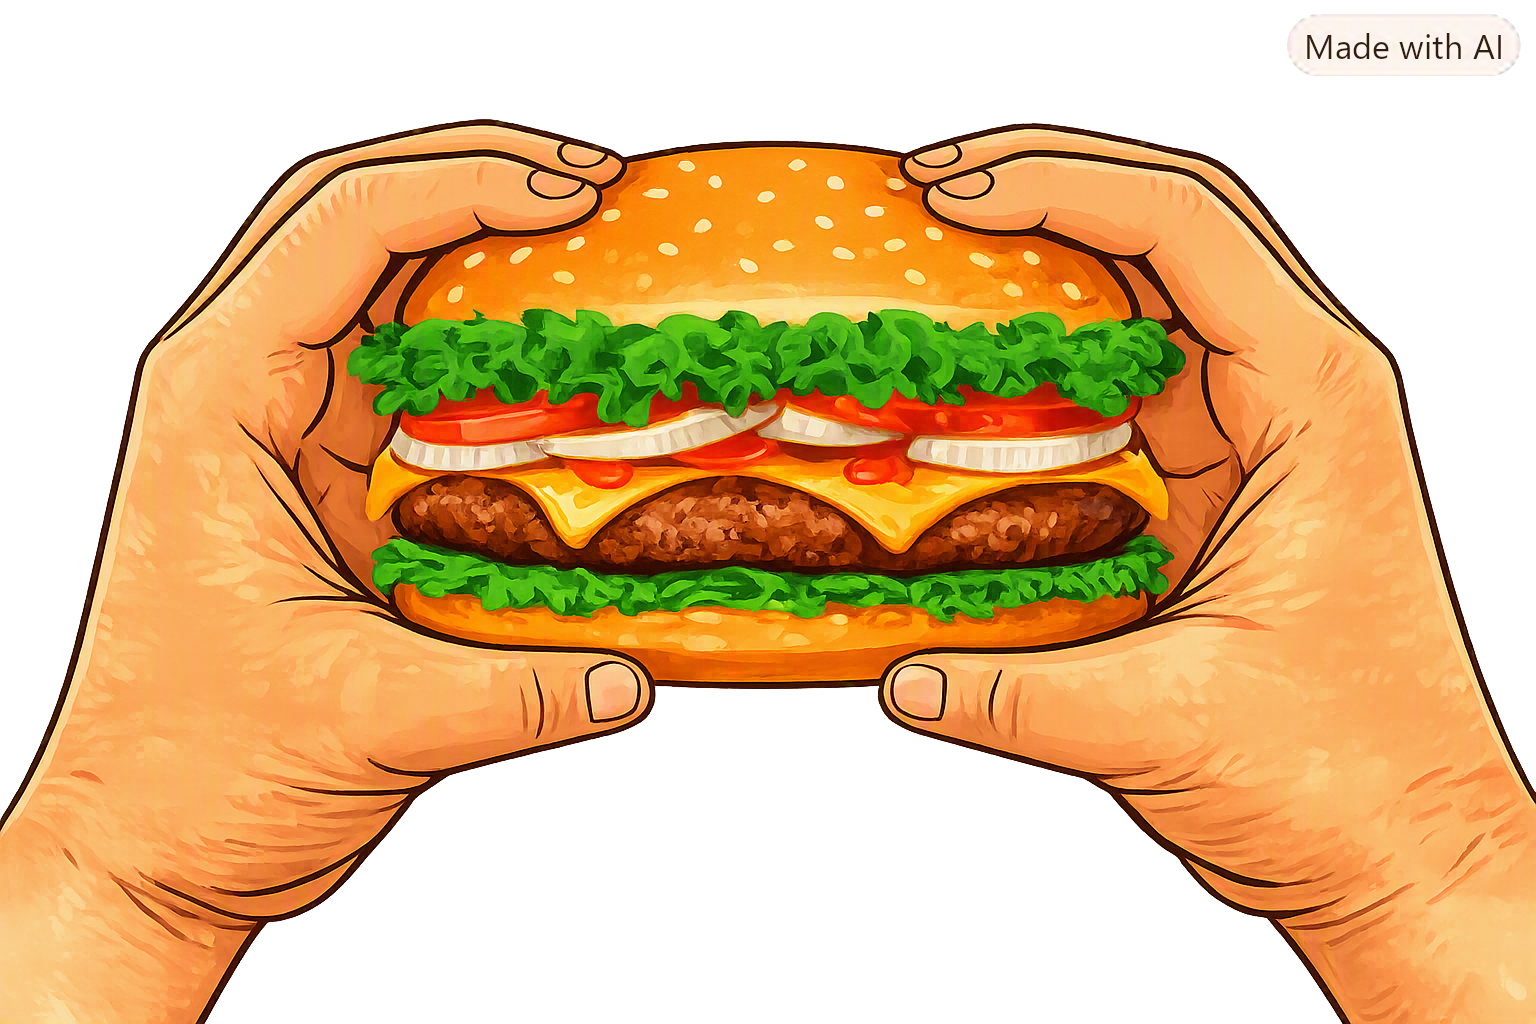
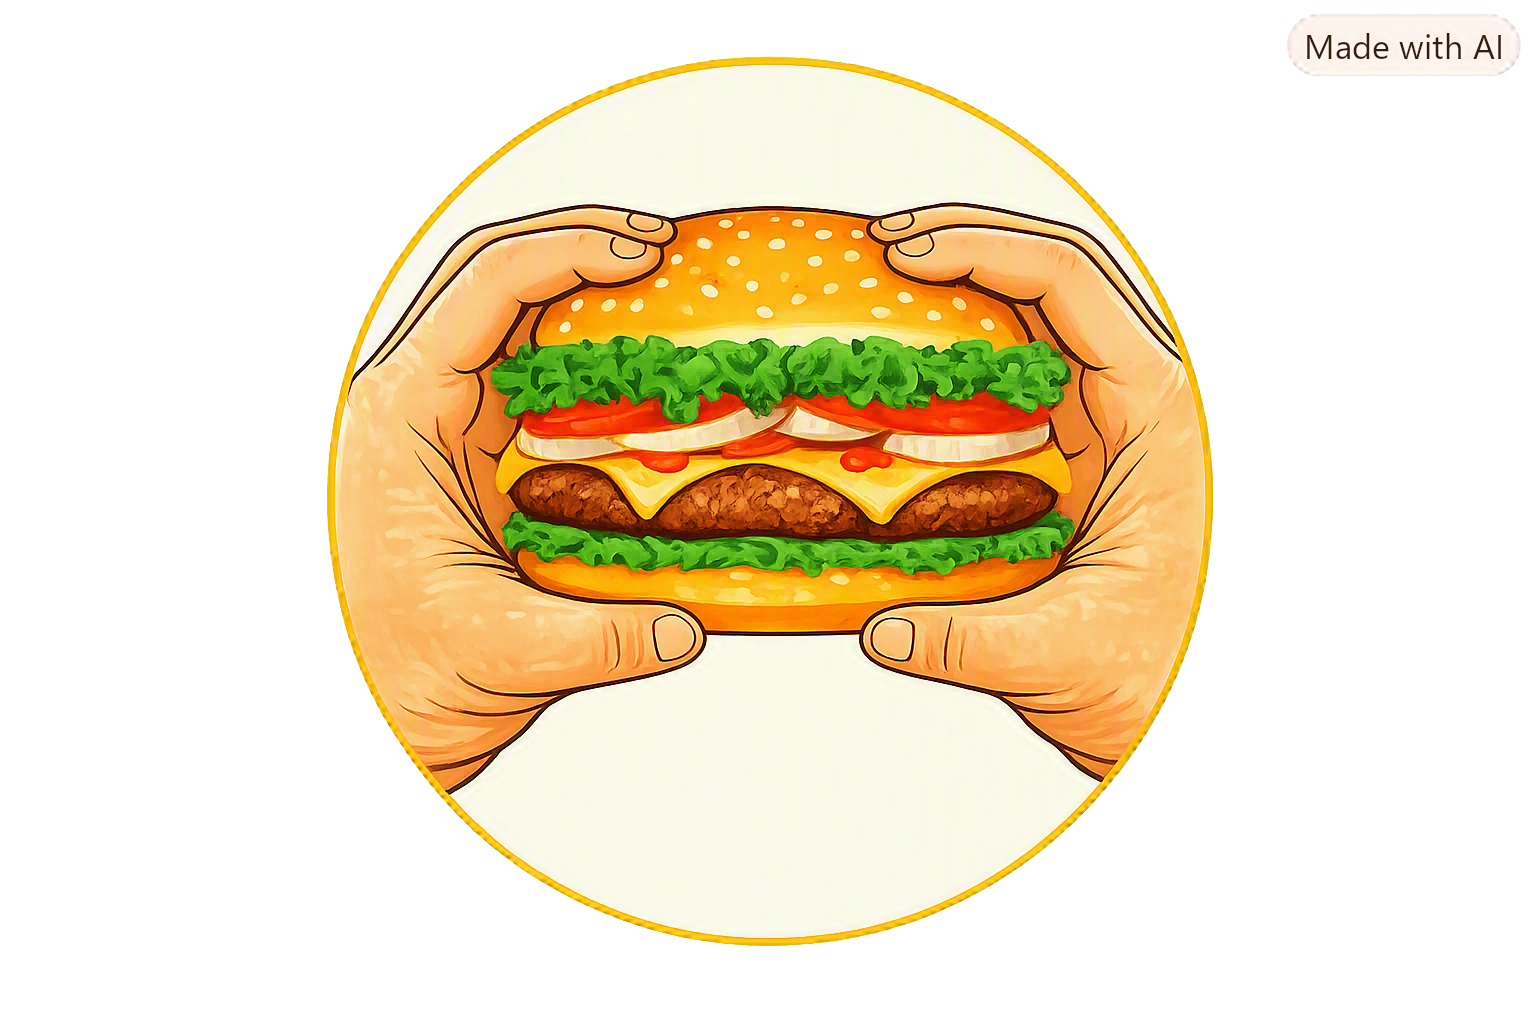
updated

diff --git a/AppGC.html b/AppGC.html
@@ -109,10 +109,10 @@ chef_hat
                 <div class="bloco-promocao">
                     <i class="fa-solid fa-down-long"></i>
                     <picture>
-                        <source srcset="imagens/pix.png" media="(max-width: 760px)" type="image/png">
+                        <source srcset="imagens/pix.png" media="(max-width: 760px)" type="image/png" width="400" height="auto">
                         <source srcset="imagens/" media="(min-width: 761px) and (max-width: 1120px)" type="image/">
                         <source srcset="imagens" media="(min-width: 1121px)" type="image/">
-                        <img src="imagens/" alt="imagem do hamburguer">
+                        <img src="imagens/pix.png" width="400" height="auto" alt="imagem do hamburguer">
                     </picture>
                     <div class="texto-informativo">
                         <h1>Pague pelo App</h1>

diff --git a/AppGC.css b/AppGC.css
@@ -91,7 +91,7 @@
         height: 50%;
         object-fit: cover;
         display: flex;
-        background-color: navajowhite;
+        
         border-radius: 50%;
         
     }
